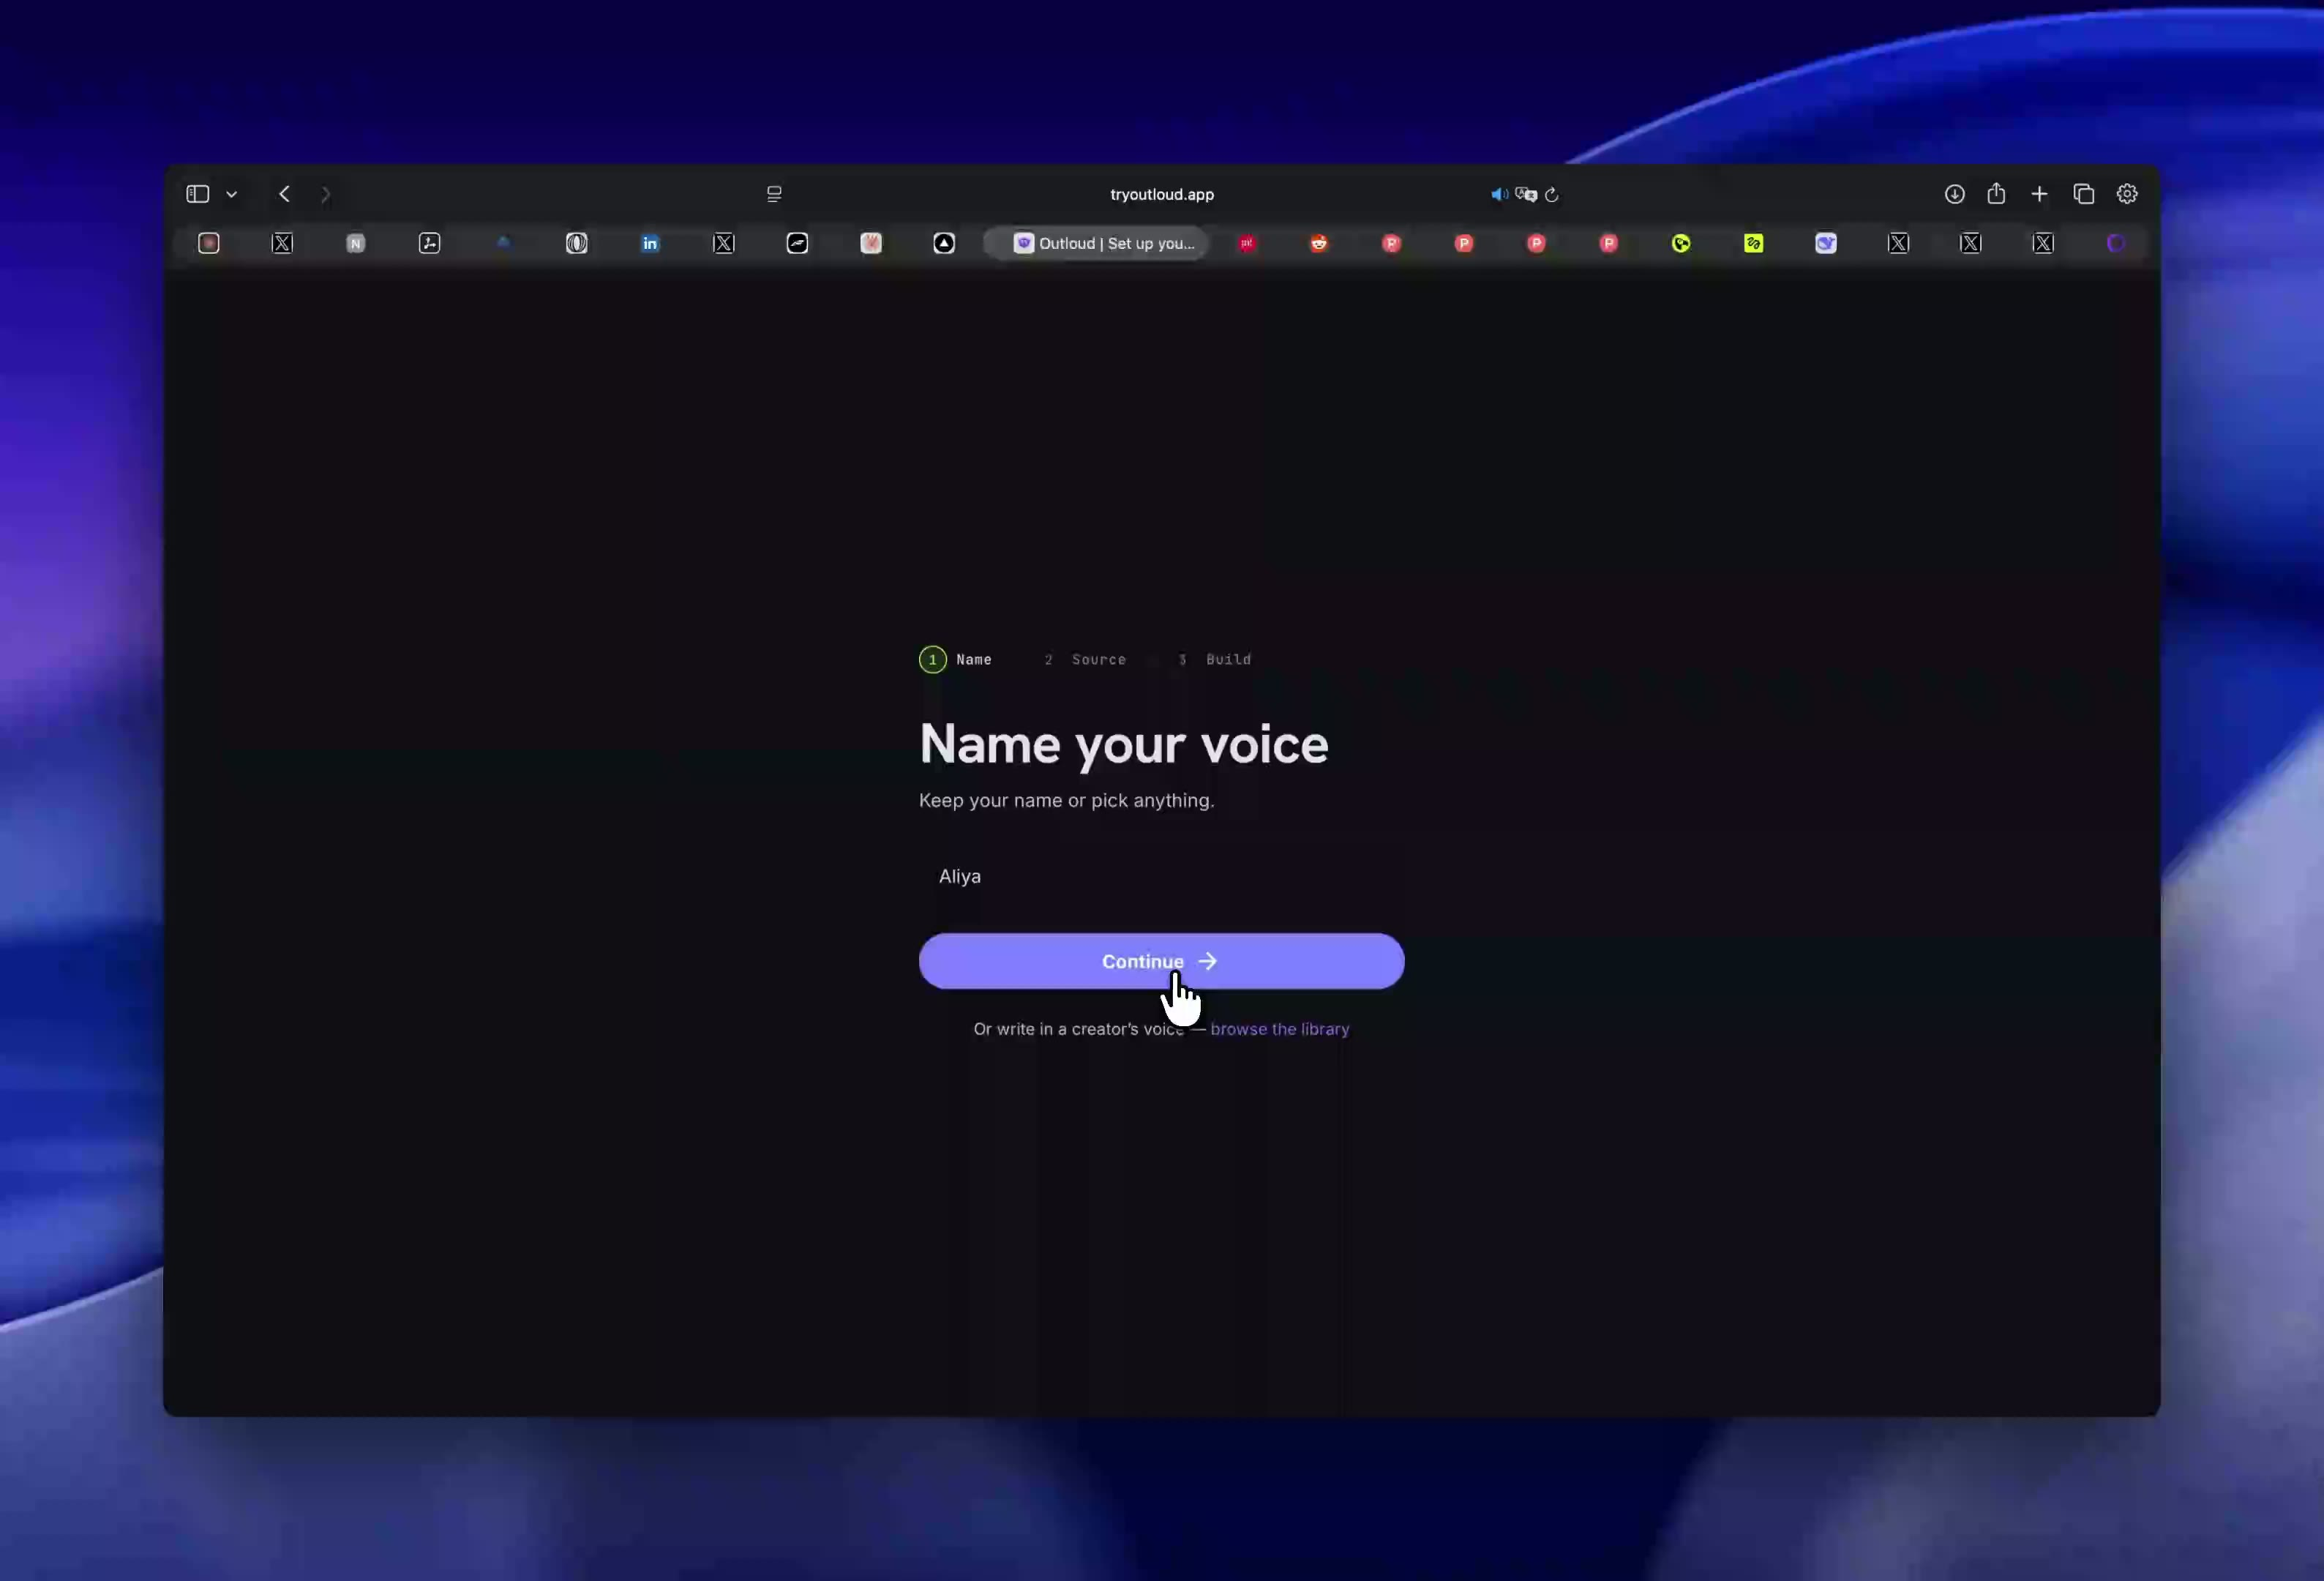
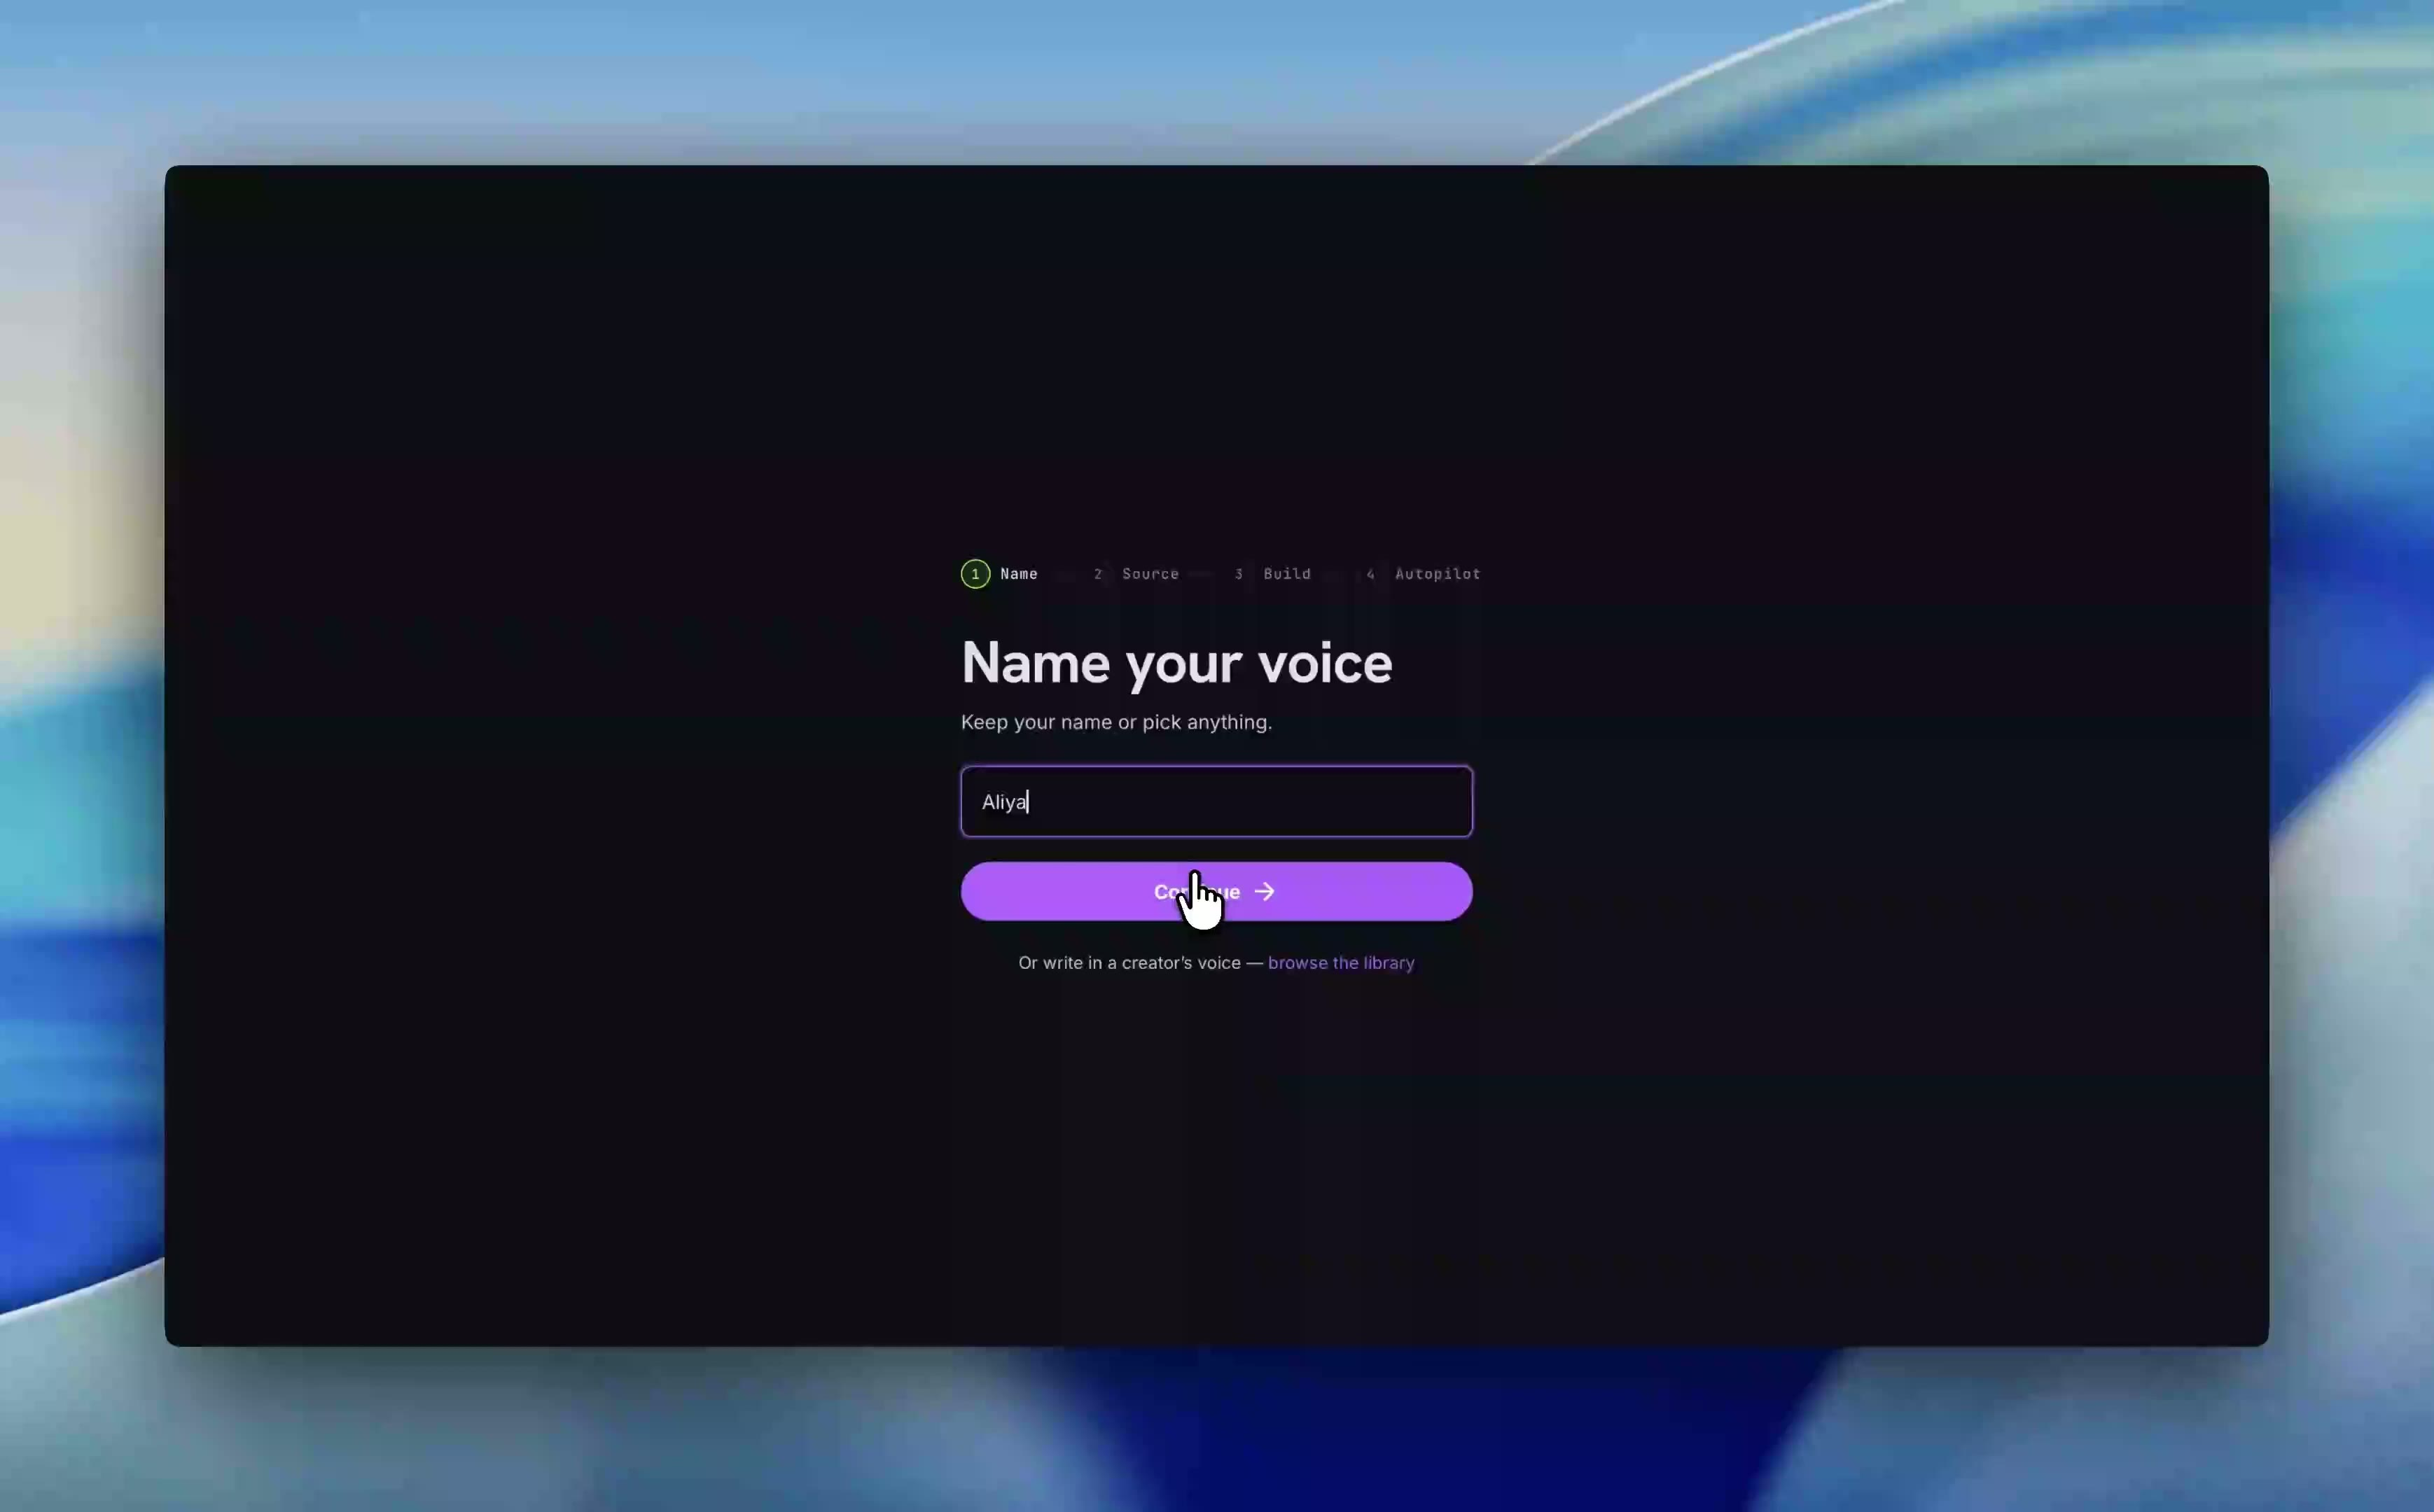
Post page notifications voice video

diff --git a/app/app/posts/[id]/page.tsx b/app/app/posts/[id]/page.tsx
@@ -1,0 +1,101 @@
+import Link from 'next/link'
+import { notFound, redirect } from 'next/navigation'
+import { getSession } from '@/lib/auth/session'
+import { getScheduledPost } from '@/lib/schedule/store'
+import { platformLabel, SCHEDULE_PLATFORMS } from '@/lib/schedule/types'
+import { PlatformGlyph } from '@/components/app/PlatformGlyph'
+
+export const metadata = { title: 'Post — Outloud' }
+
+// The tap-through target for "your post is live" notifications: the post itself
+// plus one icon per platform it went out on, each linking to the live post there.
+export default async function PostPage({ params }: { params: Promise<{ id: string }> }) {
+  const { id } = await params
+  const session = await getSession()
+  if (!session) redirect('/signup')
+  // A malformed id makes Postgres reject the uuid cast — same answer as "not yours".
+  const post = await getScheduledPost(session.userId, id).catch(() => null)
+  if (!post) notFound()
+
+  const live = SCHEDULE_PLATFORMS.filter((p) => post.platforms.includes(p) && post.externalPostIds?.[p])
+  const when = post.publishedAt ?? post.scheduledFor
+
+  return (
+    <div className="mx-auto w-full max-w-2xl">
+      <Link
+        href="/app/calendar"
+        className="mb-6 inline-flex items-center gap-1 font-code-label text-code-label text-on-surface-variant transition-colors hover:text-on-surface"
+      >
+        <span aria-hidden="true" className="material-symbols-outlined text-[16px]">arrow_back</span>
+        Calendar
+      </Link>
+
+      <div className="mb-6">
+        <h1 className="font-headline-lg text-headline-lg">{post.status === 'published' ? 'Your post is live' : 'Your post'}</h1>
+        <p className="mt-1 font-code-label text-code-label uppercase text-on-surface-variant">
+          {post.source === 'autopilot' ? 'autopilot post' : 'your post'} · {post.status} ·{' '}
+          {new Date(when).toLocaleString(undefined, { month: 'short', day: 'numeric', hour: '2-digit', minute: '2-digit' })}
+        </p>
+      </div>
+
+      <p className="whitespace-pre-wrap rounded-2xl border border-border-muted bg-surface-container-lowest p-5 font-body-md leading-relaxed text-on-surface">
+        {post.content}
+      </p>
+
+      {post.media && post.media.length > 0 && (
+        <div className="mt-4 flex flex-wrap gap-3">
+          {post.media.map((m) => (
+            // eslint-disable-next-line @next/next/no-img-element
+            <img key={m.url} src={m.url} alt={m.alt ?? ''} className="h-28 w-28 rounded-xl border border-border-muted object-cover" />
+          ))}
+        </div>
+      )}
+
+      {live.length > 0 && (
+        <div className="mt-6">
+          <p className="mb-3 font-code-label text-code-label text-on-surface-variant">Open it where it published:</p>
+          <div className="flex items-center gap-3">
+            {live.map((p) => {
+              const url = post.permalinks?.[p]
+              const inner = (
+                <>
+                  <PlatformGlyph platform={p} className="h-5 w-5" />
+                  <span className="sr-only">{platformLabel(p)}</span>
+                </>
+              )
+              // A permalink opens the live post; without one (older posts) the
+              // icon still confirms the platform, just not clickable.
+              return url ? (
+                <a
+                  key={p}
+                  href={url}
+                  target="_blank"
+                  rel="noreferrer"
+                  aria-label={`Open on ${platformLabel(p)}`}
+                  title={`Open on ${platformLabel(p)}`}
+                  className="flex h-12 w-12 items-center justify-center rounded-full border border-border-muted bg-surface-container text-on-surface transition-colors hover:border-electric-indigo hover:text-electric-indigo"
+                >
+                  {inner}
+                </a>
+              ) : (
+                <span
+                  key={p}
+                  title={`Published to ${platformLabel(p)}`}
+                  className="flex h-12 w-12 items-center justify-center rounded-full border border-border-muted bg-surface-container text-on-surface-variant/60"
+                >
+                  {inner}
+                </span>
+              )
+            })}
+          </div>
+        </div>
+      )}
+
+      {post.error && (
+        <p className="mt-6 rounded-xl border border-error/30 bg-error/10 p-4 font-body-sm text-body-sm text-error">
+          {post.error}
+        </p>
+      )}
+    </div>
+  )
+}

diff --git a/lib/schedule/publish.ts b/lib/schedule/publish.ts
@@ -11,7 +11,7 @@ import {
   getValidAccessToken as getLinkedInToken,
   markNeedsReconnect,
 } from '@/lib/linkedin/store'
-import { addNotification } from '@/lib/notifications/store'
+import { addNotification, hasRecentNotification } from '@/lib/notifications/store'
 import { getAccount as getThreadsAccount, getValidAccessToken as getThreadsToken } from '@/lib/threads/store'
 import { getPermalink, publishThread } from '@/lib/threads/client'
 import {
@@ -25,6 +25,7 @@ import { postTweet, uploadImageFromUrl } from '@/lib/x/client'
 import { X_MEDIA_SCOPE_ENABLED } from '@/lib/x/oauth'
 import { MediaScopeError, PostTooLongError, ReplyNotAllowedError, XAuthError, XNotConnectedError } from '@/lib/x/errors'
 import { finishPublish, type PublishOutcome } from './store'
+import { platformLabel, SCHEDULE_PLATFORMS } from './types'
 import type { ExternalPostIds, ScheduledPost, SchedulePlatform } from './types'
 
 // The publish executor. Deliberately callable for ONE post so the cron scan can
@@ -107,7 +108,23 @@ async function publishToX(post: ScheduledPost): Promise<AttemptResult> {
     return { platform: 'x', ok: true, id, permalink }
   } catch (err) {
     if (err instanceof XNotConnectedError) return { platform: 'x', ok: false, error: 'X not connected', transient: false }
-    if (err instanceof XAuthError) return { platform: 'x', ok: false, error: 'X connection expired — reconnect in Profile', transient: false }
+    if (err instanceof XAuthError) {
+      // A dead X token never heals on its own (X revokes old grants when the same
+      // X account is authorized again) — tell the user, or every X publish fails
+      // silently while the other platforms keep succeeding. Deduped: one nudge a
+      // day, not one per post.
+      if (!(await hasRecentNotification(post.userId, 'reconnect_needed', 24 * 3_600_000).catch(() => true))) {
+        await addNotification({
+          userId: post.userId,
+          kind: 'reconnect_needed',
+          title: 'reconnect x',
+          body: 'your x connection expired — reconnect in profile to keep posting there.',
+          link: '/app/profile',
+          refId: post.id,
+        }).catch((e) => console.error('[schedule/publish] notify failed:', e))
+      }
+      return { platform: 'x', ok: false, error: 'X connection expired — reconnect in Profile', transient: false }
+    }
     if (err instanceof MediaScopeError) return { platform: 'x', ok: false, error: 'X media permission missing — reconnect in Profile', transient: false }
     if (err instanceof PostTooLongError) return { platform: 'x', ok: false, error: `too long for X (limit ${err.limit})`, transient: false }
     if (err instanceof ReplyNotAllowedError) return { platform: 'x', ok: false, error: err.message, transient: false }
@@ -163,6 +180,7 @@ async function publishToLinkedIn(post: ScheduledPost): Promise<AttemptResult> {
         kind: 'reconnect_needed',
         title: 'reconnect linkedin',
         body: 'your linkedin connection expired — reconnect in profile to keep posting.',
+        link: '/app/profile',
         refId: post.id,
       }).catch((e) => console.error('[schedule/publish] notify failed:', e))
       return { platform: 'linkedin', ok: false, error: 'linkedin_needs_reconnect', transient: false }
@@ -197,15 +215,16 @@ export async function publishScheduledPost(post: ScheduledPost): Promise<'publis
   const outcome = decideOutcome(post.retryCount, results, prior, post.permalinks ?? {})
   await finishPublish(post.id, outcome)
   if (outcome.status === 'published') {
-    // Zero-touch users see output through THIS notification (addendum B) — the
-    // live link means they never have to open the platform or log in.
-    const links = Object.values(outcome.permalinks)
+    // Zero-touch users see output through THIS notification (addendum B). It
+    // links to OUR post page, which shows the text plus one icon per platform —
+    // each icon opens the live post there.
+    const on = SCHEDULE_PLATFORMS.filter((p) => outcome.externalPostIds[p])
     await addNotification({
       userId: post.userId,
       kind: 'post_published',
       title: 'your post is live',
-      body: links.length ? links.join('\n') : 'view it on your calendar.',
-      link: links[0],
+      body: on.length ? `live on ${on.map(platformLabel).join(', ')} — tap to open it.` : 'view it on your calendar.',
+      link: `/app/posts/${post.id}`,
       refId: post.id,
     }).catch((e) => console.error('[schedule/publish] notify failed:', e))
   }

diff --git a/components/app/PlatformGlyph.tsx b/components/app/PlatformGlyph.tsx
@@ -1,0 +1,20 @@
+import type { SchedulePlatform } from '@/lib/schedule/types'
+
+// Brand marks for the three publish targets (simple-icons paths, 24×24).
+// Material Symbols has no X/Threads/LinkedIn glyphs, so these live here — ONE
+// source for anywhere the app shows a platform as an icon rather than a label.
+const PATHS: Record<SchedulePlatform, string> = {
+  x: 'M18.901 1.153h3.68l-8.04 9.19L24 22.846h-7.406l-5.8-7.584-6.638 7.584H.474l8.6-9.83L0 1.154h7.594l5.243 6.932ZM17.61 20.644h2.039L6.486 3.24H4.298Z',
+  threads:
+    'M12.186 24h-.007c-3.581-.024-6.334-1.205-8.184-3.509C2.35 18.44 1.5 15.586 1.472 12.01v-.017c.03-3.579.879-6.43 2.525-8.482C5.845 1.205 8.6.024 12.18 0h.014c2.746.02 5.043.725 6.826 2.098 1.677 1.29 2.858 3.13 3.509 5.467l-2.04.569c-1.104-3.96-3.898-5.984-8.304-6.015-2.91.022-5.11.936-6.54 2.717C4.307 6.504 3.616 8.914 3.589 12c.027 3.086.718 5.496 2.057 7.164 1.43 1.783 3.631 2.698 6.54 2.717 2.623-.02 4.358-.631 5.8-2.045 1.647-1.613 1.618-3.593 1.09-4.798-.31-.71-.873-1.3-1.634-1.75-.192 1.352-.622 2.446-1.284 3.272-.886 1.102-2.14 1.704-3.73 1.79-1.202.065-2.361-.218-3.259-.801-1.063-.689-1.685-1.74-1.752-2.964-.065-1.19.408-2.285 1.33-3.082.88-.76 2.119-1.207 3.583-1.291a13.853 13.853 0 0 1 3.02.142c-.126-.742-.375-1.332-.75-1.757-.513-.586-1.308-.883-2.359-.89h-.029c-.844 0-1.992.232-2.721 1.32L7.734 7.847c.98-1.454 2.568-2.256 4.478-2.256h.044c3.194.02 5.097 1.975 5.287 5.388.108.046.216.094.321.142 1.49.7 2.58 1.761 3.154 3.07.797 1.82.871 4.79-1.548 7.158-1.85 1.81-4.094 2.628-7.277 2.65Zm1.003-11.69c-.242 0-.487.007-.739.021-1.836.103-2.98.946-2.916 2.143.067 1.256 1.452 1.839 2.784 1.767 1.224-.065 2.818-.543 3.086-3.71a10.5 10.5 0 0 0-2.215-.221z',
+  linkedin:
+    'M20.447 20.452h-3.554v-5.569c0-1.328-.027-3.037-1.852-3.037-1.853 0-2.136 1.445-2.136 2.939v5.667H9.351V9h3.414v1.561h.046c.477-.9 1.637-1.85 3.37-1.85 3.601 0 4.267 2.37 4.267 5.455v6.286zM5.337 7.433c-1.144 0-2.063-.926-2.063-2.065 0-1.138.92-2.063 2.063-2.063 1.14 0 2.064.925 2.064 2.063 0 1.139-.925 2.065-2.064 2.065zm1.782 13.019H3.555V9h3.564v11.452zM22.225 0H1.771C.792 0 0 .774 0 1.729v20.542C0 23.227.792 24 1.771 24h20.451C23.2 24 24 23.227 24 22.271V1.729C24 .774 23.2 0 22.225 0z',
+}
+
+export function PlatformGlyph({ platform, className }: { platform: SchedulePlatform; className?: string }) {
+  return (
+    <svg aria-hidden="true" viewBox="0 0 24 24" fill="currentColor" className={className}>
+      <path d={PATHS[platform]} />
+    </svg>
+  )
+}

diff --git a/lib/media.ts b/lib/media.ts
@@ -1,5 +1,7 @@
-// Public URL of the onboarding/demo clip, hosted on Vercel Blob (kept out of the
-// repo + deploy bundle — see .vercelignore). Single source of truth for both the
-// landing carousel and the in-app intro overlay. Refresh by re-running
-// scripts/upload-intro.ts and pasting the new URL here.
-export const INTRO_VIDEO_URL = 'https://lgucdhdm6methfcr.public.blob.vercel-storage.com/demo/intro.mp4'
+// Public URL of the onboarding/demo clip. Served as a static asset: the file is
+// gitignored (media stays out of the repo) but explicitly UN-ignored in
+// .vercelignore so it ships with the deploy. Single source of truth for both the
+// landing hero and the in-app intro overlay. To swap the clip, drop the new file
+// under public/demo/ with a NEW versioned name (busts CDN + browser caches),
+// update this path, and regenerate public/intro-poster.jpg from its first frame.
+export const INTRO_VIDEO_URL = '/demo/intro-v2.mp4'

diff --git a/components/app/NotificationsBell.tsx b/components/app/NotificationsBell.tsx
@@ -78,9 +78,16 @@ export function NotificationsBell() {
                   </span>
                 </>
               )
-              // A notification with a link (e.g. the live post) is a tap-through anchor.
+              // A notification with a link is a tap-through anchor. In-app links
+              // (e.g. the post page) open here; external ones in a new tab.
+              const external = Boolean(n.link && !n.link.startsWith('/'))
               return n.link ? (
-                <a key={n.id} href={n.link} target="_blank" rel="noreferrer" className="group flex items-start gap-2 rounded-xl p-2.5 hover:bg-white/[0.04]">
+                <a
+                  key={n.id}
+                  href={n.link}
+                  {...(external ? { target: '_blank', rel: 'noreferrer' } : {})}
+                  className="group flex items-start gap-2 rounded-xl p-2.5 hover:bg-white/[0.04]"
+                >
                   {inner}
                 </a>
               ) : (

diff --git a/lib/autopilot/validate.test.ts b/lib/autopilot/validate.test.ts
@@ -2,15 +2,15 @@ import { describe, expect, it } from 'vitest'
 import { validateAutopilotPost } from './validate'
 
 describe('validateAutopilotPost', () => {
-  it('accepts a compliant lowercase post', () => {
+  it('accepts a compliant post', () => {
     expect(validateAutopilotPost('shipped a tiny fix today and it took three hours but the bug taught me more than the feature did')).toEqual({ ok: true })
+  })
+  it('accepts any casing — casing belongs to the voice, not the format', () => {
+    expect(validateAutopilotPost('Shipped a fix today. It held.')).toEqual({ ok: true })
   })
   it('rejects empty or whitespace-only output', () => {
     expect(validateAutopilotPost('')).toEqual({ ok: false, reason: 'empty' })
     expect(validateAutopilotPost('   \n ')).toEqual({ ok: false, reason: 'empty' })
-  })
-  it('rejects uppercase letters', () => {
-    expect(validateAutopilotPost('Shipped a fix today')).toEqual({ ok: false, reason: 'uppercase' })
   })
   it('rejects em-dashes', () => {
     expect(validateAutopilotPost('shipped a fix — finally')).toEqual({ ok: false, reason: 'em-dash' })

diff --git a/components/app/AppSidebar.tsx b/components/app/AppSidebar.tsx
@@ -16,7 +16,7 @@ export type SidebarProfile = {
   plan: string
 }
 
-type NavItem = { href: string; label: string; icon: string; badge?: number; soon?: boolean }
+type NavItem = { href: string; label: string; icon: string; badge?: number }
 
 // Secondary navigation. The two creation actions (New post / New reply) are
 // promoted out of this list into prominent buttons at the top of the sidebar.
@@ -26,7 +26,6 @@ function navItems(voiceCount: number): NavItem[] {
     { href: '/app/autopilot', label: 'Autopilot', icon: 'auto_awesome' },
     { href: '/app/voices', label: 'Voices', icon: 'graphic_eq', badge: voiceCount },
     { href: '/app/prompts', label: 'Prompts', icon: 'bookmarks' },
-    { href: '/app/knowledge', label: 'Knowledge', icon: 'menu_book', soon: true },
   ]
 }
 
@@ -110,10 +109,6 @@ export function AppSidebar({
             {it.badge ? (
               <span className="rounded-full bg-surface-container-high px-2 py-0.5 font-code-label text-[11px] text-on-surface-variant">
                 {it.badge}
-              </span>
-            ) : it.soon ? (
-              <span className="rounded-full border border-border-muted px-2 py-0.5 font-code-label text-[10px] uppercase text-on-surface-variant/60">
-                soon
               </span>
             ) : null}
           </Link>

diff --git a/lib/autopilot/validate.ts b/lib/autopilot/validate.ts
@@ -8,7 +8,8 @@ const URL_RE = /https?:\/\/|www\./i
 export function validateAutopilotPost(text: string, maxLen = 280): { ok: boolean; reason?: string } {
   const t = (text ?? '').trim()
   if (!t) return { ok: false, reason: 'empty' }
-  if (t !== t.toLowerCase()) return { ok: false, reason: 'uppercase' }
+  // No casing check: casing is the VOICE's (a voice that capitalizes normally
+  // must come out capitalized). Em-dash stays — it's a base-rules slop ban.
   if (t.includes('—')) return { ok: false, reason: 'em-dash' }
   if (URL_RE.test(t)) return { ok: false, reason: 'url' }
   if (t.length > maxLen) return { ok: false, reason: 'too-long' }

diff --git a/lib/autopilotPrompt.ts b/lib/autopilotPrompt.ts
@@ -1,3 +1,3 @@
 // AUTO-GENERATED from outloud-autopilot-prompt.md by scripts/build-prompt.mjs.
 // Do not edit by hand — edit the .md and run `npm run gen:prompt`.
-export const AUTOPILOT_PROMPT = "FORMAT: autopilot audience post (X-length, single post).\n\nthis post is written on autopilot to build the author's audience. every rule below is mandatory and overrides any conflicting instinct:\n\n- all lowercase. no capital letters anywhere, including \"i\" and names.\n- additive sentences chained with and / but / so.\n- no em-dashes.\n- no rule-of-three lists.\n- no \"it's not X, it's Y\" constructions.\n- no tidy aphoristic closers.\n- age-, location-, and ethnicity-neutral: never reference the author's age, schooling, nationality, city, or any language other than english.\n- no call to action of any kind. do not ask readers to follow, reply, share, click, or do anything.\n- no link and no url in the post body.\n- one single post, under 280 characters.\n\nwrite about the given interest area from the author's lived point of view, in their voice."
+export const AUTOPILOT_PROMPT = "FORMAT: autopilot audience post (X-length, single post).\n\nThis post is written on autopilot to build the author's audience. Write it exactly the way the author writes — their casing, punctuation, rhythm, sentence shapes, and length habits all come from the Style Guide and samples, not from this format. The rules below constrain only content and shape:\n\n- One single post, under 280 characters.\n- No call to action of any kind. Do not ask readers to follow, reply, share, click, or do anything.\n- No link and no URL in the post body.\n- Age-, location-, and ethnicity-neutral: never reference the author's age, schooling, nationality, city, or any language other than English.\n\nWrite about the given interest area from the author's lived point of view, in their voice."

diff --git a/outloud-autopilot-prompt.md b/outloud-autopilot-prompt.md
@@ -3,20 +3,20 @@ Autopilot FORMAT prompt. Bundled to lib/autopilotPrompt.ts by scripts/build-prom
 (run `npm run gen:prompt` after editing). Passed as formatText into generatePost for
 every autopilot generation — it rides on top of BASE_PROMPT + the user's voice block.
 Autopilot content is audience-building: no CTA, no URL, ever.
+
+The STYLE of an autopilot post comes ENTIRELY from the user's active voice (its
+Style Guide + samples) — this format constrains only the content and the shape,
+never the voice. Do not add style rules here (casing, sentence shapes, rhythm):
+they flatten every voice into the same template, which is the exact failure the
+product exists to avoid.
 -->
 FORMAT: autopilot audience post (X-length, single post).
 
-this post is written on autopilot to build the author's audience. every rule below is mandatory and overrides any conflicting instinct:
+This post is written on autopilot to build the author's audience. Write it exactly the way the author writes — their casing, punctuation, rhythm, sentence shapes, and length habits all come from the Style Guide and samples, not from this format. The rules below constrain only content and shape:
 
-- all lowercase. no capital letters anywhere, including "i" and names.
-- additive sentences chained with and / but / so.
-- no em-dashes.
-- no rule-of-three lists.
-- no "it's not X, it's Y" constructions.
-- no tidy aphoristic closers.
-- age-, location-, and ethnicity-neutral: never reference the author's age, schooling, nationality, city, or any language other than english.
-- no call to action of any kind. do not ask readers to follow, reply, share, click, or do anything.
-- no link and no url in the post body.
-- one single post, under 280 characters.
+- One single post, under 280 characters.
+- No call to action of any kind. Do not ask readers to follow, reply, share, click, or do anything.
+- No link and no URL in the post body.
+- Age-, location-, and ethnicity-neutral: never reference the author's age, schooling, nationality, city, or any language other than English.
 
-write about the given interest area from the author's lived point of view, in their voice.
+Write about the given interest area from the author's lived point of view, in their voice.